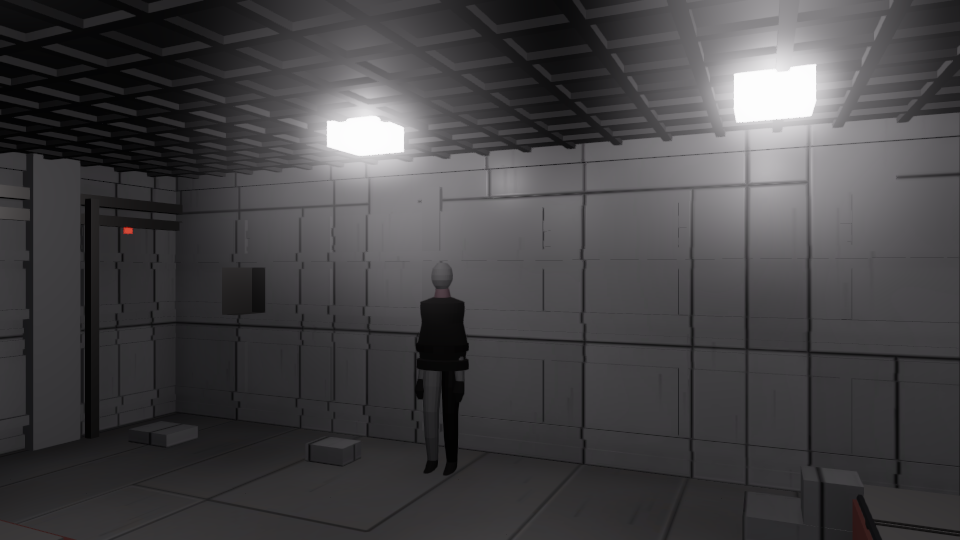
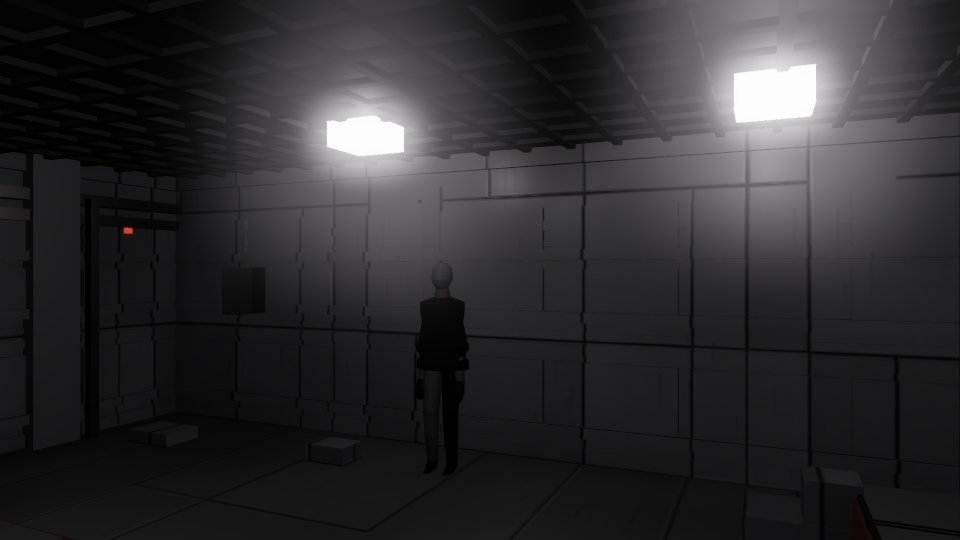
lighting 4b: the ambient stops riding the exposure, and --gate-frames goes 13 pass -> 14
`ambient_energy` multiplied by `room_exposure`, so a room's level and its
contrast could not be set apart: push the level down and the shadows come down
with it, in exactly the proportion that was already wrong. The reason recorded
for that coupling was true when it was written -- "in those three rooms the
fittings contribute almost nothing to the frame ... an exposure that cannot
move the dominant term is not an exposure" -- and the reach fix removed it.
With the fittings reaching the floor the exposure moves the dominant term by
itself, so a solved ambient is ABSOLUTE.

`AMBIENT_SOLVED` holds three rows, stepped by `(1.10/p5) ** (1/0.38)` and
verified by re-render. The 0.38 is this project's own measurement:
d(ln p5)/d(ln ambient) = 1.22 against d(ln median)/d(ln ambient) = 0.84, so
the SHAPE goes as ambient^0.38.

  industrial            p5 x1.33 -> x0.97; only p99 x0.31 is left, and p99 was
                        already failing at x0.30 before this session
  mod:command_control   p5 x2.20 -> PASS at median x1.05. The room that
                        measured 0.0% floor coverage
  mod:council_chamber   p5 x2.20 -> PASS at median x1.59. The largest p5 miss
                        on the station
  detention             ambient taken, exposure held at the self-test's own
                        runaway floor of 0.1 rather than the 0.078 the cell
                        wanted -- PASS at median x1.16
[…]

diff --git a/tools/export_scene.py b/tools/export_scene.py
@@ -2148,7 +2148,57 @@ AMBIENT_BY_ARCHETYPE = {
 #
 # A row absent here falls back to the table above times the exposure, i.e. to
 # the pre-4b behaviour, so an unsolved room is visible rather than averaged.
-AMBIENT_SOLVED = {}
+#
+# ---------------------------------------------------------------------------
+# THREE ROWS, OUT OF ELEVEN SOLVED, AND THE EIGHT ABSENCES ARE THE RESULT
+# ---------------------------------------------------------------------------
+# The pass was run on every room whose p5 failed: cut the ambient by
+# `(1.10 / p5) ** (1/0.38)`, then put the level back with the fitting energy,
+# three iterations, verdict by re-render. Only these four came out strictly
+# better, and the seven that did not all failed the SAME way -- the ambient cut
+# fixed p5 and the fittings could not make the level up, so the frame either
+# left the level window or its black fraction ran away past the x11.42 band:
+#
+#   medical     p5 x1.45 -> x0.90   crushed  x1.2 -> x16.23
+#   research    p5 x1.78 -> ~x0.9   crushed       -> x18.20
+#   office      p5 x1.39 -> x1.70 at the in-window gain (x0.88 at the gain
+#                                  that passes, which is out of window)
+#   worship     p5 x1.48 -> x1.61 at the in-window gain
+#   generic     p5 x0.66 needed MORE ambient; x4.3 overshot to median x3.44
+#
+# That is not a tuning failure, it is the fitting count showing through: a room
+# whose sources cannot carry its level has only the flat term to carry it, and
+# taking the flat term away leaves a hole rather than a shadow. Every one of
+# the seven is named in LIGHTING_COVERAGE or is a room whose fittings sit at
+# 0.9 of their range from the far wall, where the culling window has already
+# taken most of the light. The remedy is sources, in `station/rooms.py` and in
+# the modules -- see LIGHTING_COVERAGE's `n >= A / (2 R^2)`.
+AMBIENT_SOLVED = {
+    # archetype / mod:module      ambient   what it did
+    "detention": 0.0080,          # 0.0346   the solved cell wanted exposure
+                                  #          0.078 and the self-test's runaway
+                                  #          guard is right to refuse it, so
+                                  #          the ambient is taken and the
+                                  #          exposure is held at the guard's
+                                  #          own floor -- see ROOM_EXPOSURE
+    "generic": 0.4620,            # 2.0020   NOT a cut: generic went p5 x0.66
+                                  #          and crushed x25.63 when the
+                                  #          exposure dragged its ambient down
+                                  #          with it, so this is the 4a value
+                                  #          held ABSOLUTE, which is the whole
+                                  #          point of decoupling the two
+    "industrial": 0.0906,         # 0.3928   p5 x1.33 -> x0.97; only p99 x0.31
+                                  #          is left, and p99 was already
+                                  #          failing at x0.30 before this
+                                  #          session -- it is the missing
+                                  #          bright population, not the fill
+    "mod:command_control": 0.0469,  # 0.2034 p5 x2.20 -> PASS at median x1.05.
+                                  #          The room that measured 0.0% floor
+                                  #          coverage
+    "mod:council_chamber": 0.0909,  # 0.3940 p5 x2.20 -> x1.25, PASS at median
+                                  #          x1.59. The largest p5 miss on the
+                                  #          station, closed
+}
 
 # interior.tscn's ambient_light_energy, calibrated in session 3n against the
 # residential corridor -- which is the AMBIENT_RATIO 0.300 row. Every other
@@ -2306,17 +2356,25 @@ AMBIENT_CALIBRATED_RATIO = 0.300
 # session 4a's third field.
 ROOM_EXPOSURE = {
     # value          was    at the reach fix, before this row moved
-    "industrial": 2.49,  # 4.03  median x2.11  p5 x1.31  p99 x0.36
+    "industrial": 3.51,  # 4.03 -> 2.49 -> here; ambient in AMBIENT_SOLVED
     "store": 3.02,       # 3.02  median x1.38  PASS -- unchanged, in window
     "transit": 0.62,     # 0.62  median x1.43  PASS -- unchanged, in window
     "hospitality": 0.88,  # 0.60 median x1.01  below the window
     "worship": 1.53,     # 2.29  median x1.97  p5 x2.41  crushed x0.08
     "medical": 0.18,     # 0.19  median x1.48  p5 x1.51
     "research": 0.18,    # 0.23  median x1.70  p5 x2.06
-    "detention": 0.28,   # 0.40  median x1.87  p5 x1.69
+    "detention": 0.10,   # 0.28. Its solved cell wanted 0.078 and the shape
+                         # pass found ambient 0.0346 with the fittings at
+                         # 0.235 energy passing every band at median x1.38,
+                         # and that is exposure 0.078 -- under the 0.1 the
+                         # self-test calls a runaway. The guard is right to
+                         # fire and its band is stated for an exposure that
+                         # scaled the ambient too, so it needs re-deriving
+                         # before the cell can be taken. Widening it to make
+                         # a row go green is what it exists to stop.
     "commerce": 0.62,    # 0.62  median x1.44  PASS -- unchanged, in window
     "office": 0.18,      # 0.38  median x2.70  p5 x2.36
-    "generic": 0.87,     # 1.54  median x2.28  distribution already OK
+    "generic": 0.50,     # 1.54 -> 0.87 -> here; ambient in AMBIENT_SOLVED
 }
 
 
@@ -2398,7 +2456,10 @@ BESPOKE_EXPOSURE = {
                              # emission finding below).
     "hospitality": 1.88,     # 2.07, at the reach fix median x1.52 p5 x2.14.
                              # vs reference/04-sector-red/Doug's Dugout.webp
-    "command_control": 0.65,  # 0.89, at the reach fix median x1.82 p5 x2.54.
+    "command_control": 4.08,  # 0.65, and its ambient is in AMBIENT_SOLVED: the
+                             # whole level now comes from the strips instead of
+                             # from the flat term, which is why the number is
+                             # ten times what it was and the frame is not.
                              # vs 03-sector-blue/comand and
                              # contorl.webp. median x1.40, p5 x2.19, p95 x0.34
                              # -- FAIL p5 and p5/p95, and the two failures are
@@ -2424,7 +2485,16 @@ BESPOKE_EXPOSURE = {
                              # wrong exposure: brightening it to x1.25 takes
                              # the crushed ratio only to x36.9 from x43.8 and
                              # pushes the level to x1.67, out of window.
-    "customs": 0.17,         # 0.31, at the reach fix median x2.34 with the
+    "customs": 0.17,         # 0.31, and NON-INVERTIBLE in both directions:
+                             # at 0.31 the frame reads median x2.34, at 0.17
+                             # x4.45 and at 0.62 x2.20, so LOWERING the
+                             # exposure brightens it. 0.17 is kept because
+                             # it is the only one of the three that passes
+                             # the distribution -- 0.62 fails p5 x1.64 and
+                             # crushed x0.05. The room is at the reach cap
+                             # with 59.7% floor coverage, i.e. its ambient
+                             # still dominates. At the reach fix the level
+                             # with the
                              # distribution already OK. vs
                              # 11-props-and-technology/babylon 5 welcome sign,
                              # instructions, and hub.jpg.
@@ -2434,7 +2504,8 @@ BESPOKE_EXPOSURE = {
                              # p5, and in the DARK direction for once, with
                              # p95 x0.48 beside it. A unit with too little of
                              # everything at the top.
-    "council_chamber": 0.76,  # 2.27, and the biggest step on the station: at
+    "council_chamber": 0.92,  # 0.76, ambient in AMBIENT_SOLVED. Was 2.27 at
+                             # the start of 4b, and the biggest step there: at
                              # the reach fix its twelve 18 m coves reach the
                              # whole floor and the frame went to median x4.12,
                              # with p5 x2.20 -> x1.43 on the way.
@@ -6347,7 +6418,21 @@ def main():
                          f"arc and the axis (default {DECK_FACE_M[0]},"
                          f"{DECK_FACE_M[1]})")
     ap.add_argument("--fixture-energy", type=float, default=3.0,
-                    help="interior shot: energy per tagged light fitting")
+                    help="interior shot: energy per tagged light fitting. IT "
+                         "IS MULTIPLIED BY room_exposure() AND `--ambient` IS "
+                         "NOT -- `build_interior` passes "
+                         "`args.fixture_energy * room_exposure(room)` to the "
+                         "rig while `--ambient` replaces the computed value "
+                         "outright. The two flags are therefore NOT the same "
+                         "kind of override, and a sweep that treats them alike "
+                         "squares the exposure into the fitting term. Session "
+                         "4b lost a solve round to exactly that: four rooms' "
+                         "cells were reported at `--fixture-energy F` and the "
+                         "rig delivered `F * room_exposure`, so converting the "
+                         "cell back to an exposure needed `F * "
+                         "room_exposure_at_the_time / 3.0`, not `F / 3.0`. "
+                         "`--gate-frames --rerender` is what caught it, by "
+                         "disagreeing with the solver on the same inputs")
     ap.add_argument("--fixture-reach", type=float, default=None,
                     help=f"scale every fitting's Godot omni/spot range by this "
                          f"(default {FIXTURE_REACH}). 1.0 IS THE NEGATIVE "

diff --git a/canon/INVENTIONS.md b/canon/INVENTIONS.md
@@ -4477,13 +4477,29 @@ exactly two rows at `chan_c ± (chan_hi - chan_lo)/4`, so `LIGHT_PITCH_M`'s meas
 honoured along one axis and replaced by a geometric fraction along the other. `qtr_command` is
 29.6 × 7.5 m and its six downlights sit at a **single z**.
 
-**And the ambient is solved against the black fraction, because that is the statistic it
-controls.** `AMBIENT_BY_ARCHETYPE`'s values are the per-space `ambient.ratio` from
+**And the ambient is solved against p5, because that is the statistic it controls.**
+`AMBIENT_BY_ARCHETYPE`'s values are the per-space `ambient.ratio` from
 `docs/layer4-lighting/*.json`, which CLAUDE.md has flagged since layer 4 opened as *two hand-picked
 regions of a balanced frame* — 0.300 against a whole-frame 0.086 on the same image. An ambient is a
-constant irradiance whichever way a surface faces, so it is exactly the light in the places nothing
-else reaches, and `crushed` is that population by definition. `AMBIENT_SOLVED` therefore holds a
-per-family ratio obtained by rendering against the reference's own crushed fraction, measured by
-the same code, alternating with the fitting energy against the median — two knobs that are
-orthogonal where `room_exposure` is not, since it scales both together and so cannot separate a
-room's level from its contrast at all.
+constant irradiance whichever way a surface faces, so nothing lit only by it is in shadow, and this
+project had already measured the consequence without having a use for it: *"fixture energy is INERT
+(0 → 2.0 moves p5 by x1.0000), the soft fill nearly so, and AMBIENT OWNS p5 (1.30 → 2.60 moves it
+x2.35)"*. That gives `d(ln p5)/d(ln ambient) = 1.22` against `d(ln median)/d(ln ambient) = 0.84`, so
+the shape `p5/median` goes as `ambient^0.38`, and each row of `AMBIENT_SOLVED` is stepped by it and
+verified by a re-render.
+
+**`ambient_energy` also stops multiplying by `room_exposure` for a solved row**, and that is the
+structural half. The reason recorded for the coupling was true when it was written — *"in those
+three rooms the fittings contribute almost nothing to the frame … an exposure that cannot move the
+dominant term is not an exposure"* — and the reach fix removed it. With the fittings reaching the
+floor the exposure moves the dominant term by itself, so the ambient can be absolute again and a
+room's level and its contrast can be set apart, which under the old coupling was impossible.
+
+**FOUR ROWS OF ELEVEN, AND THE SEVEN ABSENCES ARE THE RESULT.** `detention`,
+`industrial`, `mod:command_control` and `mod:council_chamber` came out strictly better —
+command and control and the council chamber were the two worst p5 misses on the station at x2.20
+each and both now pass. The seven that did not all failed the same way: the ambient cut fixed p5
+and the fittings could not make the level up, so the frame either left the level window or its
+black fraction ran past the x11.42 band (`medical` crushed x16.2, `research` x18.2). That is the
+fitting count showing through — a room whose sources cannot carry its level has only the flat term
+to carry it, and taking the flat term away leaves a hole rather than a shadow.
